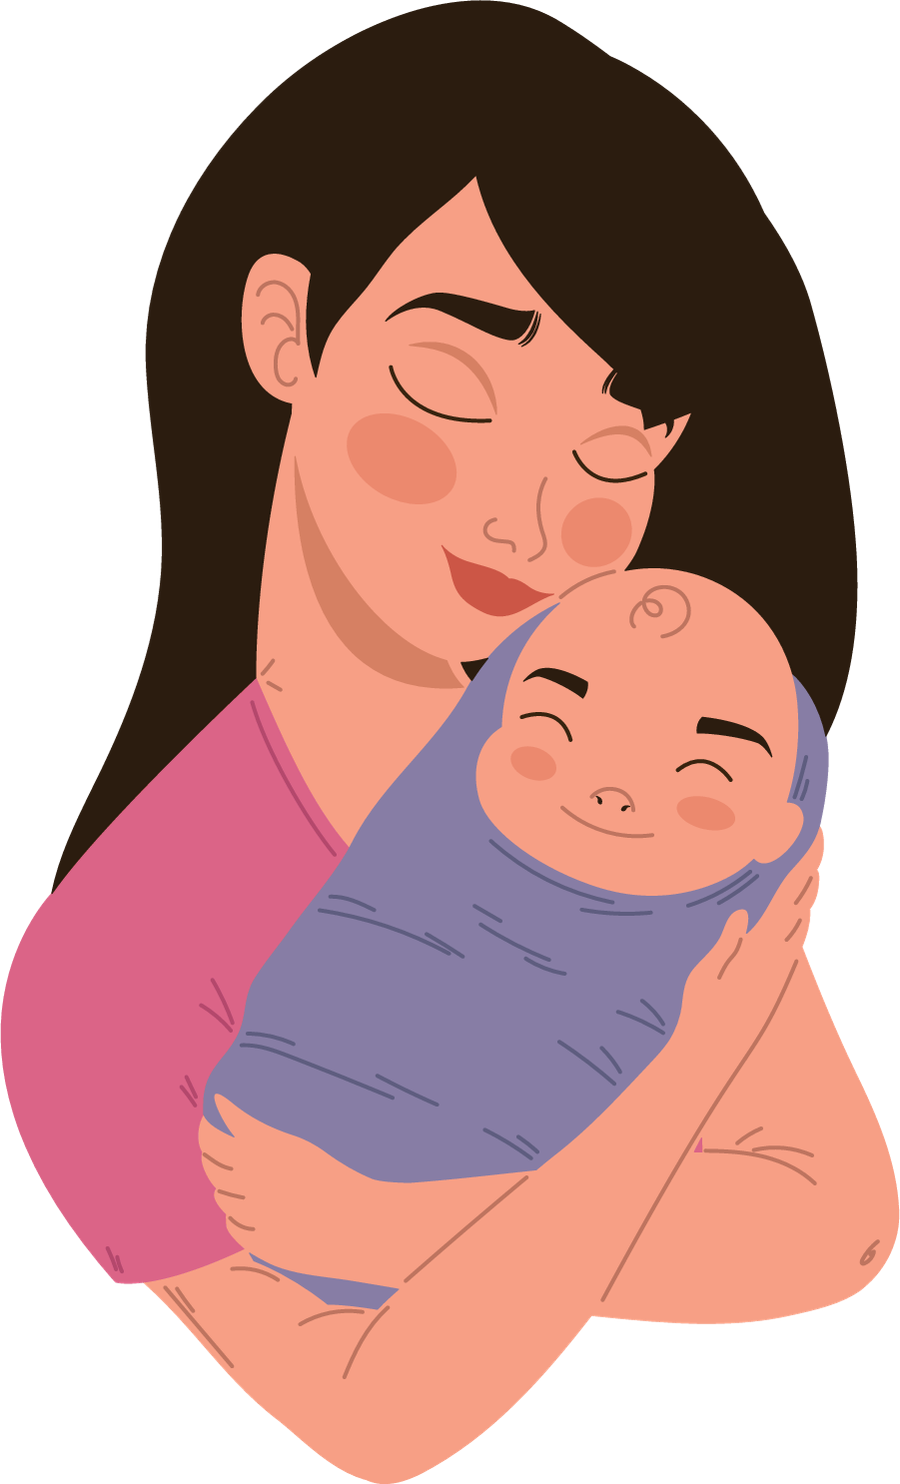
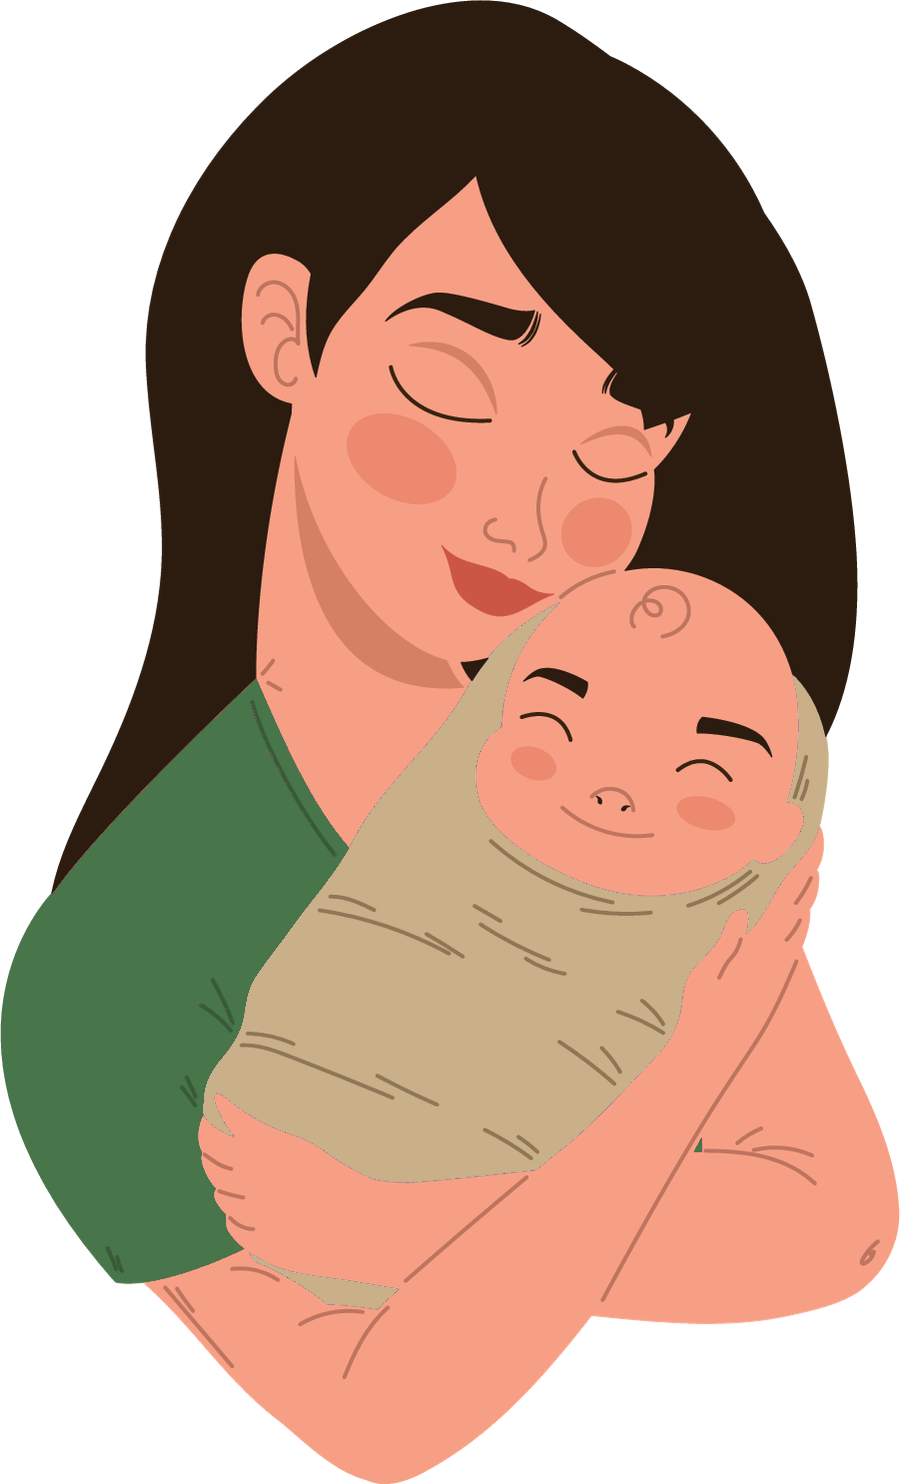
Earthy re-theme: white background, sage, cream, oat, terracotta and butter
- Always-white, light-only app (userInterfaceStyle light); neutral chrome so food photos lead
- Sage green primary (4.5:1 on white), oat and cream surfaces, terracotta accents,
  butter-yellow notes; white cards and chips get a hairline border
- Illustrations, welcome artwork (sage shirt, oat blanket), splash and notification
  tint updated; project rules in CLAUDE.md updated

Claude-Session: https://claude.ai/code/session_01DW9B3QqHAHowCyMSUjyjGv

Changed region(s): [[0.0, 0.403, 0.9333, 0.8679], [0.3111, 0.8369, 0.4356, 0.8989]]

diff --git a/src/global.css b/src/global.css
@@ -6,50 +6,30 @@
 /*
  * Semantic color tokens. Keep in sync with src/theme/colors.ts, which native
  * props (tab bar, status bar, notification tint) read directly.
- * Light and dark both define every token so the values stay as live variables.
+ * Palette: always-white background with soft, natural earthy tones (sage green,
+ * warm cream, oat, terracotta, butter yellow). Chrome stays neutral so food
+ * photos are the focal point. The app is light-only by design.
+ * Token names are roles, not colors: "sky" is now soft sage, "deep" terracotta.
  */
 :root {
-  --app-canvas: #fff7f5;
+  --app-canvas: #ffffff;
   --app-surface: #ffffff;
-  --app-surface-muted: #fdeef1;
-  --app-ink: #2a1e24;
-  --app-ink-muted: #6e5a64;
-  --app-primary: #db6487;
+  --app-surface-muted: #f6f2ea;
+  --app-ink: #2c2a25;
+  --app-ink-muted: #6a655b;
+  --app-primary: #487549;
   --app-on-primary: #ffffff;
-  --app-accent: #eee7fc;
-  --app-on-accent: #3e2b6e;
-  --app-border: #f3dfe5;
-  --app-sky: #e4eefb;
-  --app-on-sky: #1e2a44;
-  --app-deep: #4a1d3f;
+  --app-accent: #f7eedc;
+  --app-on-accent: #5b4a2e;
+  --app-border: #e9e3d8;
+  --app-sky: #e7efe2;
+  --app-on-sky: #2e4a31;
+  --app-deep: #b25a3b;
   --app-on-deep: #ffffff;
-  --app-caution-bg: #fcefd9;
-  --app-caution-ink: #6b4a12;
-  --app-danger-bg: #fbe4e1;
-  --app-danger-ink: #9b2c2c;
-}
-
-@media (prefers-color-scheme: dark) {
-  :root {
-    --app-canvas: #16111a;
-    --app-surface: #231b27;
-    --app-surface-muted: #2f2433;
-    --app-ink: #f9eef2;
-    --app-ink-muted: #c7b4be;
-    --app-primary: #f5a3bc;
-    --app-on-primary: #2b0b18;
-    --app-accent: #382c57;
-    --app-on-accent: #eee7fc;
-    --app-border: #3a2d3d;
-    --app-sky: #22314a;
-    --app-on-sky: #e4eefb;
-    --app-deep: #f2c6da;
-    --app-on-deep: #2a0f22;
-    --app-caution-bg: #3d3220;
-    --app-caution-ink: #f2d29b;
-    --app-danger-bg: #3e2523;
-    --app-danger-ink: #f4a9a9;
-  }
+  --app-caution-bg: #fbf0cf;
+  --app-caution-ink: #6a4f12;
+  --app-danger-bg: #f8e1d8;
+  --app-danger-ink: #9a3a1f;
 }
 
 @theme inline {

diff --git a/src/theme/illustration-palette.ts b/src/theme/illustration-palette.ts
@@ -1,50 +1,30 @@
 /**
- * Flat illustration colors (SVG fills can't take classNames). Soft, warm and on-brand:
- * blush and rose with lavender, sky and a few food colors. Dark mode is dimmed slightly
- * so white plates and jars don't glare.
+ * Flat illustration colors (SVG fills can't take classNames), in the app's soft
+ * earthy palette: sage, warm cream, oat, terracotta and butter yellow. Key names
+ * are roles kept from the first palette: "rose" is now terracotta, "lavender"
+ * soft sage, "sky" a pale sage-blue. Light-only, like the app.
  */
 export const illustrationPalette = {
   light: {
     blob: '#FFFFFF',
-    blobOpacity: 0.7,
-    blobOnWhite: '#FDEEF1',
-    blobOnDarkOpacity: 0.16,
+    blobOpacity: 0.75,
+    blobOnWhite: '#F6F2EA',
+    blobOnDarkOpacity: 0.18,
     white: '#FFFFFF',
-    cream: '#FFF4E0',
-    rose: '#DB6487',
-    roseSoft: '#F5A3BC',
-    roseDeep: '#B84A6E',
-    lavender: '#CDBEF2',
-    lavenderDeep: '#8E78D0',
-    sky: '#BFD6F2',
-    skyDeep: '#6F95C9',
-    butter: '#F8D57E',
-    honey: '#E9A93B',
-    mint: '#BFE3CF',
-    leaf: '#6FB58C',
-    carrot: '#F29B5C',
-    brown: '#B98463',
-  },
-  dark: {
-    blob: '#FFFFFF',
-    blobOpacity: 0.1,
-    blobOnWhite: '#2E2433',
-    blobOnDarkOpacity: 0.1,
-    white: '#EFE4EA',
-    cream: '#F1E2C8',
-    rose: '#E0779A',
-    roseSoft: '#F5A3BC',
-    roseDeep: '#C25A7D',
-    lavender: '#B8A8E6',
-    lavenderDeep: '#8E78D0',
-    sky: '#A9C3E6',
-    skyDeep: '#6F95C9',
-    butter: '#EBC46C',
-    honey: '#D99A32',
-    mint: '#A8D6BE',
-    leaf: '#62A67E',
-    carrot: '#E58D50',
-    brown: '#A87657',
+    cream: '#FBF3E2',
+    rose: '#D9805E',
+    roseSoft: '#EDB9A0',
+    roseDeep: '#B25A3B',
+    lavender: '#C9D9BD',
+    lavenderDeep: '#7E9C72',
+    sky: '#D3E0D8',
+    skyDeep: '#7A9A8C',
+    butter: '#F3D98B',
+    honey: '#E2B04A',
+    mint: '#CFE3C4',
+    leaf: '#6E9A5E',
+    carrot: '#E8945E',
+    brown: '#A9825F',
   },
 } as const;
 

diff --git a/src/theme/colors.ts b/src/theme/colors.ts
@@ -1,27 +1,20 @@
 /**
  * Raw color values for places that cannot take a className (native tab bar,
  * status bar, date picker, notification tint). Keep in sync with src/global.css.
- * Palette: warm blush and soft rose with a lavender accent.
- * Rose text only at large/bold sizes (3:1 contrast); body text stays ink.
+ * Palette: always-white background with soft earthy tones; sage green is the
+ * primary (meets 4.5:1 on white). The app is light-only.
  */
-export const colors = {
-  light: {
-    canvas: '#FFF7F5',
-    surface: '#FFFFFF',
-    ink: '#2A1E24',
-    inkMuted: '#6E5A64',
-    primary: '#DB6487',
-    border: '#F3DFE5',
-  },
-  dark: {
-    canvas: '#16111A',
-    surface: '#231B27',
-    ink: '#F9EEF2',
-    inkMuted: '#C7B4BE',
-    primary: '#F5A3BC',
-    border: '#3A2D3D',
-  },
+const light = {
+  canvas: '#FFFFFF',
+  surface: '#FFFFFF',
+  ink: '#2C2A25',
+  inkMuted: '#6A655B',
+  primary: '#487549',
+  border: '#E9E3D8',
 } as const;
 
+/** Light-only by design: "dark" mirrors light so older call sites keep working. */
+export const colors = { light, dark: light } as const;
+
 export type ColorScheme = keyof typeof colors;
-export type Palette = (typeof colors)[ColorScheme];
+export type Palette = typeof light;

diff --git a/src/ui/date-field.tsx b/src/ui/date-field.tsx
@@ -1,5 +1,5 @@
 import DateTimePicker, { DateTimePickerAndroid } from '@react-native-community/datetimepicker';
-import { Platform, Pressable, useColorScheme, View } from 'react-native';
+import { Platform, Pressable, View } from 'react-native';
 
 import { fromIsoDate, toIsoDate, type IsoDate } from '@/domain/dates';
 import { usePalette } from '@/theme/use-palette';
@@ -25,7 +25,6 @@ function formatLong(date: IsoDate): string {
 /** Calendar date picker: an inline calendar on iOS, a tap-to-open dialog on Android. */
 export function DateField({ label, value, onChange, minimumDate, maximumDate }: DateFieldProps) {
   const palette = usePalette();
-  const scheme = useColorScheme() === 'dark' ? 'dark' : 'light';
   const min = minimumDate ? fromIsoDate(minimumDate) : undefined;
   const max = maximumDate ? fromIsoDate(maximumDate) : undefined;
 
@@ -63,7 +62,7 @@ export function DateField({ label, value, onChange, minimumDate, maximumDate }: 
           minimumDate={min}
           maximumDate={max}
           accentColor={palette.primary}
-          themeVariant={scheme}
+          themeVariant="light"
           onValueChange={(_event, date) => onChange(toIsoDate(date))}
         />
       </View>

diff --git a/src/features/onboarding/welcome-illustration.tsx b/src/features/onboarding/welcome-illustration.tsx
@@ -1,16 +1,14 @@
 import { Image } from 'expo-image';
-import { useColorScheme, View } from 'react-native';
+import { View } from 'react-native';
 
 const ASPECT = 900 / 1484;
 
-// Same artwork; the shirt is recoloured to match the primary button in each theme.
-const light = require('@/assets/images/welcome-mama.png');
-const dark = require('@/assets/images/welcome-mama-dark.png');
+// The shirt is recolored to match the primary (sage) button.
+const artwork = require('@/assets/images/welcome-mama.png');
 
-/** Mother cradling her baby, on a soft halo so it reads well in light and dark mode. */
+/** Mother cradling her baby, on a soft oat halo. */
 export function WelcomeIllustration({ height = 260 }: { height?: number }) {
   const halo = height * 0.92;
-  const scheme = useColorScheme();
   return (
     <View
       accessible
@@ -24,7 +22,7 @@ export function WelcomeIllustration({ height = 260 }: { height?: number }) {
         style={{ width: halo, height: halo }}
       />
       <Image
-        source={scheme === 'dark' ? dark : light}
+        source={artwork}
         style={{ height, width: height * ASPECT }}
         contentFit="contain"
         accessible={false}

diff --git a/src/app/_layout.tsx b/src/app/_layout.tsx
@@ -1,10 +1,9 @@
 import '@/global.css';
 
-import { DarkTheme, DefaultTheme, Stack, ThemeProvider } from 'expo-router';
+import { DefaultTheme, Stack, ThemeProvider } from 'expo-router';
 import * as SplashScreen from 'expo-splash-screen';
 import { StatusBar } from 'expo-status-bar';
 import { useEffect } from 'react';
-import { useColorScheme } from 'react-native';
 
 import { StorageProvider } from '@/data/storage-provider';
 import { FavoritesProvider } from '@/features/favorites/favorites-context';
@@ -70,9 +69,9 @@ function RootStack() {
 }
 
 export default function RootLayout() {
-  const scheme = useColorScheme() === 'dark' ? 'dark' : 'light';
-  const base = scheme === 'dark' ? DarkTheme : DefaultTheme;
-  const palette = colors[scheme];
+  // Light-only by design: white background at all times.
+  const base = DefaultTheme;
+  const palette = colors.light;
 
   return (
     <ThemeProvider
@@ -88,7 +87,7 @@ export default function RootLayout() {
         },
       }}
     >
-      <StatusBar style="auto" />
+      <StatusBar style="dark" />
       <StorageProvider>
         <ProfileProvider>
           <FavoritesProvider>

diff --git a/src/ui/illustrations/illustration.tsx b/src/ui/illustrations/illustration.tsx
@@ -1,4 +1,3 @@
-import { useColorScheme } from 'react-native';
 import Svg, { Path } from 'react-native-svg';
 
 import type { IllustrationName } from '@/content/illustration-names';
@@ -19,8 +18,7 @@ export type IllustrationProps = {
 
 /** A soft, flat vector illustration on an organic blob. Decorative: hidden from VoiceOver. */
 export function Illustration({ name, height = 96, on = 'pastel' }: IllustrationProps) {
-  const scheme = useColorScheme() === 'dark' ? 'dark' : 'light';
-  const c = illustrationPalette[scheme];
+  const c = illustrationPalette.light;
   return (
     <Svg
       viewBox={VIEWBOX}

diff --git a/src/features/solids/week-strip.tsx b/src/features/solids/week-strip.tsx
@@ -31,7 +31,7 @@ export function WeekStrip({ weeks, current }: WeekStripProps) {
             }
             className={cn(
               'min-h-14 min-w-14 items-center justify-center rounded-2xl px-3 active:opacity-80',
-              active ? 'bg-primary' : 'bg-surface',
+              active ? 'bg-primary' : 'bg-surface-muted',
             )}
           >
             <AppText variant="caption" size="xs" color={active ? 'on-primary' : 'muted'}>

diff --git a/src/features/today/age-hero.tsx b/src/features/today/age-hero.tsx
@@ -34,7 +34,7 @@ export function AgeHero({ profile }: { profile: Profile }) {
     .join(' · ');
 
   return (
-    <View className="rounded-b-[48px] bg-surface px-5 pb-10" style={{ paddingTop: insets.top + 8 }}>
+    <View className="rounded-b-[48px] bg-surface-muted px-5 pb-10" style={{ paddingTop: insets.top + 8 }}>
       <View className="flex-row items-center justify-between">
         <IconButton
           symbol="person.crop.circle"

diff --git a/src/ui/date-field.web.tsx b/src/ui/date-field.web.tsx
@@ -24,7 +24,7 @@ export function DateField({ label, value, onChange, minimumDate, maximumDate }: 
         min={minimumDate}
         max={maximumDate}
         onChange={(e) => e.target.value && onChange(e.target.value)}
-        style={{ fontSize: 18, padding: 14, borderRadius: 16, border: '2px solid #E4DBD0' }}
+        style={{ fontSize: 18, padding: 14, borderRadius: 16, border: '2px solid #E9E3D8' }}
       />
     </View>
   );

diff --git a/src/ui/chip.tsx b/src/ui/chip.tsx
@@ -21,7 +21,7 @@ export function Chip({ label, selected = false, onPress, className }: ChipProps)
       hitSlop={4}
       className={cn(
         'min-h-12 items-center justify-center rounded-full border-2 px-5 py-2 active:opacity-80',
-        selected ? 'border-primary bg-primary' : 'border-transparent bg-surface',
+        selected ? 'border-primary bg-primary' : 'border-border bg-surface',
         className,
       )}
     >

diff --git a/src/ui/card.tsx b/src/ui/card.tsx
@@ -5,7 +5,7 @@ import { cn } from './cn';
 export type CardTone = 'surface' | 'muted' | 'primary' | 'accent' | 'sky' | 'deep';
 
 const toneClasses: Record<CardTone, string> = {
-  surface: 'bg-surface',
+  surface: 'bg-surface border border-border',
   muted: 'bg-surface-muted',
   primary: 'bg-primary',
   accent: 'bg-accent',
